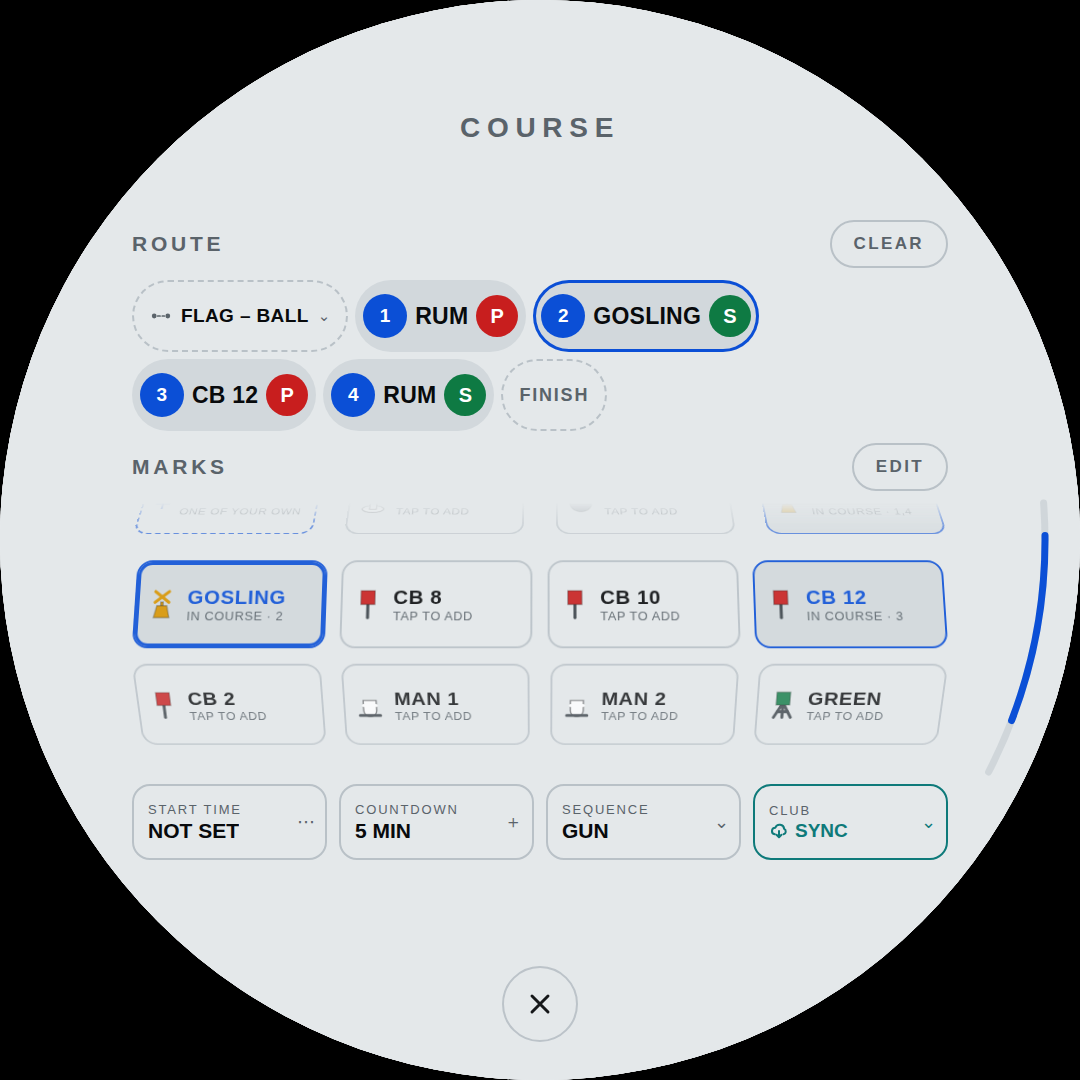
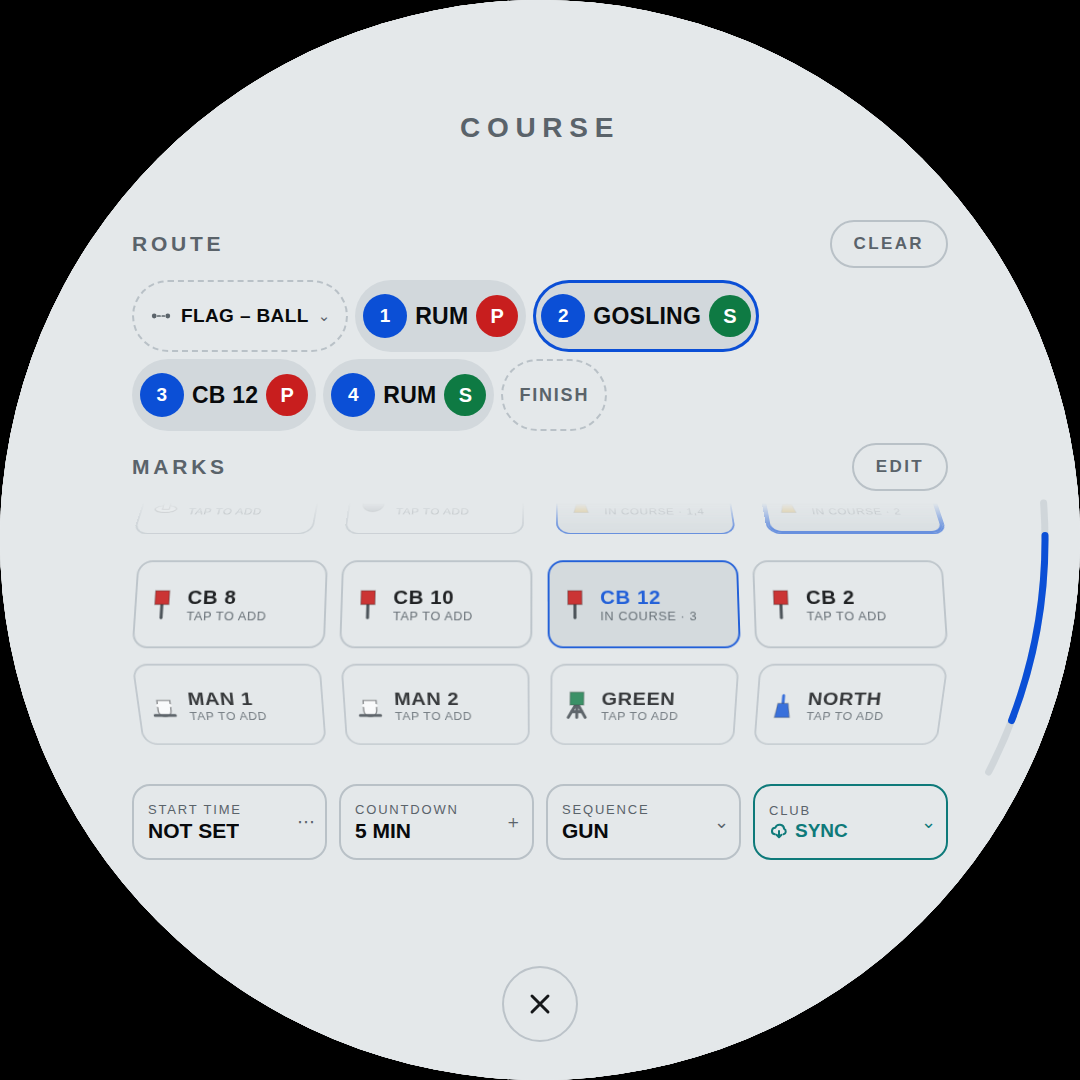
The top edge is always the panel's, and four smaller things
THE PULL. A swipe down from the very top now brings the control panel
over a running app instead of closing it. Brightness, the sounder, the
radios and the theme are not things you should have to leave the radar
to reach.

Three things had to line up. The panel sat at z20 and a launched app at
z25, so even a gesture that fired would have opened it UNDER the radar -
it is 29 now, sharing that with the scroll arc, which is later in the
document, so the panel's own sheet can still show its own arc. The judge
asked the app before the panel, which meant a panel pulled down over one
could never be swiped away - the panel is the outermost surface there
is, so it is asked first. And the radar's chart fills the glass and
claims every touch on it, so it swallowed the pull before the judge saw
it; its canvas lets a touch starting in the top band go unclaimed, with
nothing captured and no pan begun, which pointermove and up already
guard for.

The band is the top 17%, 184 px of 1080 - above the first row of
anything on every app, where the course sheet's heading is at 106 and
its first control at 220.

And a down-swipe no longer closes an app at all. It was both why the
pull did not work and the wrong control for the job: a flick that shuts
the page you are reading, thrown by the same thumb that scrolls it. The
cross at the foot closes an app, and only the cross.

THE START TIME PAD comes up over the sheet rather than in place of it.
[…]

diff --git a/confluence_helm.html b/confluence_helm.html
@@ -238,8 +238,14 @@ text{font-variant-numeric:tabular-nums;dominant-baseline:middle}
    used to come up from the bottom, which is where the app drawer lives
    now; two surfaces sharing an edge and an animation would have been two
    things that felt like one. */
+/* 29, over a launched app at 25 and over the menu at 27. The panel is
+   the one surface that comes down over ANYTHING - brightness, the
+   sounder, the radios and the theme are not things you should have to
+   leave the radar to reach. The screensaver at 30 is still above it, and
+   so is the scroll arc, which shares 29 and is later in the document -
+   the panel's own sheet scrolls, and its arc must not be under it. */
 #panel{
-  position:absolute;inset:0;background:var(--panel);z-index:20;
+  position:absolute;inset:0;background:var(--panel);z-index:29;
   transform:translateY(-100%);
   transition:transform .42s cubic-bezier(.16,1,.3,1);
   display:flex;flex-direction:column;align-items:center;justify-content:center;
@@ -529,13 +535,16 @@ text{font-variant-numeric:tabular-nums;dominant-baseline:middle}
    looking at is the one square on. It is the same shape as the buoy you
    are looking for out there - a thing you see part of because the rest
    of it has gone round.
-   Only a box with more in it than it can show turns. Flat means you are
-   looking at all of it; curved means it goes round, which is one more
-   thing on the face saying so before you have touched anything.
+   It turns whether or not there is anything to scroll. Curving only the
+   boxes that overflow made the curve a signal, which was tidy - and it
+   also meant the marks grid changed shape when an eleventh mark was
+   added, so the one surface on the face you look at most had two
+   appearances and no say in which. A drum is what this list IS, not a
+   thing that happens to it when it gets long.
    perspective on the scroller and not on each row, so every row is seen
    from one place - the middle of the box - which is what makes them read
    as one surface rather than as rows that each happen to be tilted. */
-.cv-grid.over,.lib-list.over{perspective:900px;perspective-origin:50% 50%}
+.cv-grid,.lib-list{perspective:900px;perspective-origin:50% 50%}
 .cv-grid > *,.lib-list > *{transform-origin:50% 50%}
 
 .cv-grid,.lib-list,.approw{--fa:0px; --fz:0px}
@@ -1182,20 +1191,41 @@ text{font-variant-numeric:tabular-nums;dominant-baseline:middle}
    borrowed from the mark keyboard - a key is 22 px on a 430 px phone,
    and the smallest thing anyone should ask a thumb to hit is 44. These
    are 112, which is 45 there and a generous target on the panel. */
-#course-gun{display:flex;flex-direction:column;align-items:stretch;width:640px}
-.gn-field{height:118px;border-radius:20px;background:var(--chip);display:flex;
-  align-items:center;justify-content:center;gap:18px;
+/* The start time is typed on a pad that comes up OVER the sheet rather
+   than in place of it. It used to take the whole page: the course you
+   were setting the time for vanished while you set it, which is the one
+   thing you might want to look at - and a full page for four digits is
+   the kind of thing a phone does because a phone has nothing else on
+   the screen. 520 wide and centred, with a veil to tap away. */
+#gn-veil{position:absolute;inset:0;z-index:26;display:none}
+#gn-veil.on{display:block}
+#course-gun{position:absolute;left:50%;top:50%;transform:translate(-50%,-50%);
+  z-index:27;display:none;flex-direction:column;align-items:stretch;width:640px;
+  padding:20px;border-radius:30px;background:var(--panel);
+  border:2px solid var(--hairline);box-shadow:0 18px 44px rgba(0,0,0,.28)}
+#course-gun.on{display:flex}
+.gn-field{height:96px;border-radius:18px;background:var(--chip);display:flex;
+  align-items:center;justify-content:center;
   border:2px solid var(--accent)}
-.gn-lbl{font-size:19px;letter-spacing:.16em;color:var(--label)}
-.gn-val{font-size:64px;font-weight:600;color:var(--ink);
-  font-variant-numeric:tabular-nums}
-.gn-val i{font-style:normal;font-size:34px;margin-left:10px}
-.gn-val.empty{color:var(--label);font-size:38px;letter-spacing:.08em}
-.gn-pad{display:flex;flex-direction:column;gap:10px;margin-top:12px}
+/* No GUN AT beside it any more. The pad is titled, the readout it came
+   from is titled, and a label on the number as well was the third time
+   of asking. */
+.gn-val{font-size:56px;font-weight:600;color:var(--ink);
+  font-variant-numeric:tabular-nums;letter-spacing:.02em}
+.gn-val i{font-style:normal;font-size:28px;margin-left:12px;color:var(--label)}
+.gn-val u{text-decoration:none;color:var(--hairline)}   /* a digit not typed yet */
+.gn-val u.c{color:var(--label)}                         /* the colon, which is */
+.gn-hd{font-size:17px;font-weight:600;letter-spacing:.18em;color:var(--label);
+  text-transform:uppercase;text-align:center;padding-bottom:12px}
+/* The pad shrank with the page around it and then grew back: 430 px of
+   phone shows 1080 px of layout, so a key is 0.398 of what it says here
+   and 112 is the smallest that still lands 44 under a thumb. A pop-out
+   is worth having; a pop-out you cannot hit is not. */
+.gn-pad{display:flex;flex-direction:column;gap:10px;margin-top:10px}
 .gn-row{display:flex;gap:10px}
-.gn-mer{margin-top:14px}
+.gn-mer{margin-top:10px}
 .gn-key{flex:1;min-width:0;height:112px;border-radius:16px;background:var(--chip);
-  border:none;font-family:var(--font);font-size:42px;font-weight:600;
+  border:none;font-family:var(--font);font-size:40px;font-weight:600;
   color:var(--ink);display:flex;align-items:center;justify-content:center}
 .gn-key:active{background:var(--accent);color:var(--panel)}
 .gn-key.fn{height:96px;font-size:30px;color:var(--ink-dim)}
@@ -1205,9 +1235,10 @@ text{font-variant-numeric:tabular-nums;dominant-baseline:middle}
 .gn-key.mer{height:88px;font-size:26px;letter-spacing:.12em;background:none;
   border:2px solid var(--hairline);color:var(--label)}
 .gn-key.mer.on{background:var(--accent);border-color:var(--accent);color:var(--panel)}
-#course-gun .course-bar{margin-top:16px}
-#course-gun .course-bar .cbtn{width:auto;height:72px;padding:0 30px;
-  border-radius:36px;font-size:21px}
+#course-gun .course-bar{margin-top:14px;justify-content:center;gap:12px}
+#course-gun .course-bar .cbtn{width:auto;height:60px;padding:0 24px;
+  border-radius:30px;font-size:18px}
+#gn-msg{min-height:26px;text-align:center}
 /* the form starts under where the alert banner ends (240): a shoaling
    warning while you are entering a mark is not far-fetched here */
 #course-add{padding-top:40px}
@@ -1687,7 +1718,7 @@ a.lib-row{text-decoration:none;color:inherit}
    everything after it. One overlay for the whole instrument - only one
    box is ever being scrolled - so it is placed in stage coordinates
    beside whichever box was last touched. */
-#arc{position:absolute;inset:0;width:100%;height:100%;z-index:28;
+#arc{position:absolute;inset:0;width:100%;height:100%;z-index:29;
   pointer-events:none;fill:none;opacity:0;transition:opacity .35s ease}
 /* Lit the whole time the box in front of you has more in it than it can
    show. A fade that only appears once you have already scrolled answers
@@ -2657,9 +2688,10 @@ document.body.className = THEME_EFF==='day' ? '' : THEME_EFF;
          use: a club race has a time on the sailing instructions, and
          typing it once beats watching a clock for the moment to press
          a button. -->
-    <div id="course-gun" style="display:none">
-      <div class="gn-field"><span class="gn-lbl">GUN AT</span
-        ><span class="gn-val" id="gn-at"></span></div>
+    <div id="gn-veil"></div>
+    <div id="course-gun">
+      <div class="gn-hd">Start time</div>
+      <div class="gn-field"><span class="gn-val" id="gn-at"></span></div>
       <div class="gn-row gn-mer">
         <button class="gn-key mer" id="gn-am">AM</button>
         <button class="gn-key mer" id="gn-pm">PM</button>
@@ -5078,7 +5110,11 @@ function goPage(i){
 /* Anything that moves the glass out from under the picker closes it:
    the menu is anchored to a cell, and a cell that has slid away or gone
    behind the panel leaves it pointing at nothing. */
-const openPanel =()=>{ if(APP.on) return; closeApps(); pickClose();
+/* No APP.on guard: a pull from the top edge opens this over a running
+   app, which is the whole point of it being at the top edge. openApps
+   keeps its guard - a second app launched over the first is not a thing
+   anybody reached for. */
+const openPanel =()=>{ closeApps(); pickClose();
                        markSlide('panel-open');  panel.classList.add('open');
                        netPanelOpen(); sheetFit(); };
 const closePanel=()=>{ markSlide('panel-close'); panel.classList.remove('open');
@@ -5230,6 +5266,15 @@ addEventListener('pointercancel',endGesture,true);
    desktop window can be resized under it, so the circle is measured
    rather than assumed. */
 const RIM_FRAC=0.78;
+/* The top edge, as a fraction of the glass. 0.17 is 184 px of 1080,
+   which on every app is above its first row of anything: the course
+   sheet's heading sits at 106 and its first control at 220. Below that
+   band a downward flick belongs to whatever is under it. */
+const TOP_PULL=0.17;
+function fromTop(y){
+  const r=$('stage').getBoundingClientRect();
+  return (y-r.top) < r.height*TOP_PULL;
+}
 function rimStart(x,y){
   const r=$('stage').getBoundingClientRect();
   const rad=Math.min(r.width,r.height)/2;
@@ -5276,13 +5321,23 @@ function judgeGesture(g){
      up is what a dismiss swipe dismisses, and nothing else acts: you
      cannot page sideways out from under the control panel, and a stray
      drag cannot fire the race timer underneath it. */
-  /* Whichever surface is up owns the gestures, innermost first. A
-     launched app is over both drawers, so it is asked before them. */
-  if(APP.on){ if(down) closeApp(); return; }
-  /* The panel came DOWN from the top, so UP is what sends it back. */
+  /* Whichever surface is up owns the gestures, innermost first - and
+     the control panel is the outermost thing there is, so it is asked
+     before the app underneath it. The other order meant that with an app
+     running the panel could be pulled down and never swiped away.
+     The panel came DOWN from the top, so UP is what sends it back. */
   if(panel.classList.contains('open')){
     if(drawUp){ if(netsheet.classList.contains('on')) closeNet(); else closePanel(); }
     return; }
+  /* An app owns everything except the top edge. A pull from up there is
+     the panel's wherever you are: brightness, the sounder, the radios
+     and the theme are not things you should have to leave the radar to
+     reach.
+     A down-swipe used to CLOSE the app, which is why you could not. It
+     was also the wrong control for the job - a flick that shuts the page
+     you are reading, thrown by the same thumb that scrolls it. The cross
+     at the foot closes an app now, and only the cross. */
+  if(APP.on){ if(drawDown && fromTop(sy)) openPanel(); return; }
   /* The dock came UP from the bottom, so DOWN sends it back - but only
      from the dock's own patch of glass. It covers a strip at the foot
      and leaves the dial in plain sight; a flick anywhere on that dial
@@ -8298,11 +8353,8 @@ function rimDraw(el, moving){
 const DRUM_TILT=34, DRUM_SHRINK=.11, DRUM_DIM=.42, DRUM_EDGE=1.4;
 function drumPaint(el){
   if(!el || !el.clientHeight) return;
-  const on=el.classList.contains('over');
   const H=el.clientHeight, mid=el.scrollTop+H/2, half=H/2;
   for(const k of el.children){
-    if(!on){ if(k.style.transform){ k.style.transform=''; k.style.opacity=''; }
-             continue; }
     const c=k.offsetTop+k.offsetHeight/2;
     let u=(c-mid)/half;
     /* Rows well past the edge are not on screen at all. Park them at the
@@ -9371,12 +9423,14 @@ function renderCourse(){
       +'<div class="tx"><b>'+esc(m.hdr)+'</b>'
       +'<s'+(moved?' class="moved"':'')+'>'+esc(sub)+'</s></div>'
       +badge+(courseEdit?'<div class="grip">≡</div>':'')+'</button>'; };
-  /* First, so it is there without scrolling for it, and so the new mark
-     appears in the place the tile that made it was standing. */
+  /* Last, on the end of the marks, which is where a new one will appear
+     - the tile stands in the place the mark it makes will take. It led
+     the grid for a while, which put it under your thumb but also put it
+     in front of eleven marks you already have to get past it. */
   const add='<button class="cv-tile add" data-add="1">'
     +'<span class="pl">＋</span><div class="tx"><b>NEW MARK</b>'
     +'<s>'+(courseEdit?'NAME AND POSITION':'ONE OF YOUR OWN')+'</s></div></button>';
-  box.innerHTML=add+MARKS.map(tile).join('');
+  box.innerHTML=MARKS.map(tile).join('')+add;
   scrollFit(box); drumPaint(box); rimDraw(box);
 
   /* The four settings, read at a glance. The corner glyph says what kind
@@ -9641,13 +9695,15 @@ function gnOpen(){
     pm = h>=12;
     v = String((h%12)||12) + String(d.getMinutes()).padStart(2,'0'); }
   GN={v:v, pm:pm, built:false};
-  pickClose(); crsTitle('Start time');
-  $('course-main').style.display='none'; $('course-gun').style.display='';
+  pickClose();
+  /* The sheet stays where it is, under the veil. The course you are
+     setting a time for is the one thing worth seeing while you set it. */
+  $('gn-veil').classList.add('on'); $('course-gun').classList.add('on');
   $('gn-msg').textContent=''; gnPaint();
 }
-function gnClose(){ GN=null; $('course-gun').style.display='none';
-  crsTitle();
-  $('course-main').style.display=''; renderCourse(); }
+function gnClose(){ GN=null;
+  $('course-gun').classList.remove('on'); $('gn-veil').classList.remove('on');
+  renderCourse(); }
 /* Digits and nothing else, five to a row. kbHtml's numeric layer carries
    the point, the minus and NSEW, which are there for a coordinate and
    are four wrong answers on a clock. */
@@ -9659,11 +9715,20 @@ const gnKb=()=>'<div class="gn-row">'+'12345'.split('').map(gnKey).join('')
 function gnPaint(){
   if(!GN) return;
   const d=GN.v, el=$('gn-at');
-  /* The colon goes two from the right as soon as there is a right: 6,
-     6:2, 6:25, 12:25. Typing is what it shows, not what it will mean. */
-  const txt = d.length>2 ? d.slice(0,d.length-2)+':'+d.slice(-2) : d;
-  el.innerHTML = d ? esc(txt)+'<i>'+(GN.pm?'PM':'AM')+'</i>' : 'WHEN?';
-  wCls('gn-at','empty', !d);
+  /* Always two and two, in a mask that fills from the left as you type:
+     --:--, 6-:--, 62:--, 6:25. It used to show the digits raw with the
+     colon two from the right, which meant the field changed width and
+     jumped sideways under the thumb on every key. A clock is four
+     characters wide whatever you have typed into it so far. */
+  const box=(d+'----').slice(0,4).split('');
+  const dim=n=>n==='-' ? '<u>–</u>' : n;
+  /* Once all four are in, the hour reads as the hour rather than as the
+     first two of four: 0625 is 06:25 and 1225 is 12:25. */
+  const hh = d.length>2 ? String(+d.slice(0,d.length-2)).padStart(2,'0')
+                        : box[0]+box[1];
+  const mm = d.length>2 ? d.slice(-2) : box[2]+box[3];
+  el.innerHTML = [...hh].map(dim).join('')+'<u class="c">:</u>'+[...mm].map(dim).join('')
+    +'<i>'+(GN.pm?'PM':'AM')+'</i>';
   wCls('gn-am','on', !GN.pm); wCls('gn-pm','on', GN.pm);
   if(!GN.built){ GN.built=true; $('gn-kb').innerHTML=gnKb(); }
 }
@@ -9951,6 +10016,9 @@ $('course-gun').addEventListener('click',e=>{
 const gnMer=pm=>{ if(!GN) return; GN.pm=pm; $('gn-msg').textContent=''; gnPaint(); };
 $('gn-am').addEventListener('click',()=>gnMer(false));
 $('gn-pm').addEventListener('click',()=>gnMer(true));
+/* Anywhere off the pad is 'not now', the same as the menu's veil. */
+$('gn-veil').addEventListener('pointerdown',gClaim);
+$('gn-veil').addEventListener('click',gnClose);
 $('gn-cancel').addEventListener('click',gnClose);
 $('gn-clear') .addEventListener('click',()=>{ GUNAT=null; gunSave(); gnClose(); });
 
@@ -11845,7 +11913,15 @@ function radOpen(host){
     R.view.z=zn; R.view.lon=unwx(gx,zn); R.view.lat=unwy(gy,zn);
     radReview();
   };
-  cv.addEventListener('pointerdown',e=>{ gClaim();
+  cv.addEventListener('pointerdown',e=>{
+    /* The top edge is the control panel's, wherever you are. The chart
+       fills the glass, so without this it claims the pull before the
+       judge ever sees it - and the radar is exactly the page you do not
+       want to leave to reach the brightness. Nothing is captured and no
+       pan starts, so pointermove and up have nothing of this one to
+       find: both are guarded on ptrs and drag. */
+    if(fromTop(e.clientY)) return;
+    gClaim();
     if(R.tour) R.tour.skip=true;
     ptrs.set(e.pointerId,{x:e.clientX,y:e.clientY});
     try{ cv.setPointerCapture(e.pointerId); }catch(err){}

diff --git a/docs/readings.md b/docs/readings.md
@@ -535,7 +535,7 @@ which said *which* part. The row is gone and each one went home:
 |---|---|---|
 | `CLEAR` | in the `ROUTE` heading | it empties the route. Disabled while there is no route to empty |
 | `EDIT` | in the `MARKS` heading | it changes what is in the list |
-| `+ MARK` | the **first tile in the grid** | a mark appears in the grid, so that is where you make one. It stands in the place the new one will take |
+| `+ MARK` | the **last tile in the grid** | a mark appears in the grid, so that is where you make one, and it stands in the place the new one will take. It led the grid for a while, which put it under your thumb and also put it in front of eleven marks you have to get past it |
 | `START LINE` | **first in the route**, in line with it | the route starts on the line and comes home to it. It was down among the evening's settings, next to the countdown, as though it were another thing about the clock |
 | `DONE` | **gone** | the ✕ at the foot already meant *out of here*. It goes back one step now: a sheet in front of the app closes first, the app itself next. Two ways out on a face this small is not a convenience, it is a question about which one you meant |
 
@@ -569,7 +569,7 @@ glance and only occasionally change.
 
 | | reads | a tap |
 |---|---|---|
-| `START TIME` | `6:25 PM`, or `NOT SET` | opens the pad that types it |
+| `START TIME` | `6:25 PM`, or `NOT SET` | opens the pad that types it — see below |
 | `COUNTDOWN` | `5 MIN` | **steps** it: 5, 10, 15, and round again |
 | `SEQUENCE` | `GUN` or `WINDOW` | opens a menu: both, with what each does to the line |
 | `CLUB` | `SYNC`, `CHECKING…`, `4 MARKS?` | asks the club site and opens on the answer — see below |
@@ -617,6 +617,30 @@ with `PING BOTH ENDS WITH P AND B ON THE RACE BOX` under it: a menu that
 hid the other line would not say how to get it.
 
 ![The two lines there are](img/course-line.png)
+
+### The start time pad
+
+It comes up **over** the sheet rather than in place of it. It used to
+take the whole page, which meant the course you were setting a time for
+vanished while you set it — the one thing you might want to look at —
+and a full page for four digits is what a phone does because a phone has
+nothing else on the screen. 640 × 736 on a 1080 circle, with a veil to
+tap away.
+
+640 and not the 520 it was first drawn at, because **430 px of phone
+shows 1080 px of layout**: a key is 0.398 of what the stylesheet says,
+and 112 is the smallest that still lands 44 px under a thumb. A pop-out
+is worth having; a pop-out you cannot hit is not. A probe holds that
+number.
+
+The field is a **fixed two-and-two mask** that fills as you type —
+`––:––`, `6–:––`, `62:––`, `06:25` — with the digits not yet typed drawn
+in the hairline. It showed the raw digits with the colon two from the
+right before, which meant the number changed width and jumped sideways
+under the thumb on every key. A clock is four characters wide whatever
+you have typed into it so far. The `GUN AT` label beside it is gone: the
+pad is titled, the readout it came from is titled, and a label on the
+number as well was the third time of asking.
 
 ### CLUB SYNC
 

diff --git a/docs/display.md b/docs/display.md
@@ -35,11 +35,30 @@ back to.
        * .            . *
 ```
 
-The control panel is still an overlay, pulled up from the bottom over
-whatever page you are on - and now reachable from any of them, the way
+The control panel is still an overlay, pulled down from the top over
+whatever page you are on - and reachable from any of them, the way
 control centre is on a phone. It is a layer over a place, not a place.
 While it is up it owns the gestures: left and right do nothing until you
 swipe it away.
+
+**Over a running app too.** A pull from the top edge — the top 17% of
+the glass, 184 px of 1080, which on every app is above its first row of
+anything — brings the panel down over the radar, the tracks app or
+golden hour without closing any of them. Brightness, the sounder, the
+radios and the theme are not things you should have to leave the radar
+to reach. That needs three things to line up: the panel sits at z29,
+over a launched app at 25 (and shares 29 with the scroll arc, which is
+later in the document, so the panel's own sheet can still show its arc);
+the judge asks the panel *before* the app, or a panel pulled down over
+one could never be swiped away; and the radar's chart, which fills the
+glass and claims every touch on it, lets a touch starting in that band
+go unclaimed.
+
+**A swipe no longer closes an app.** A down-flick used to, which is both
+why the pull did not work and the wrong control for the job — a flick
+that shuts the page you are reading, thrown by the same thumb that
+scrolls it. The cross at the foot closes an app now, and only the
+cross.
 
 ### How many fingers
 
@@ -676,11 +695,13 @@ the bottom, go smaller and go dim, and the row you are looking at is the
 one square on. It is the same shape as the buoy you are looking for out
 there — a thing you see part of because the rest of it has gone round.
 
-**Only a box with more in it than it can show turns.** Flat means you
-are looking at all of it; curved means it goes round. So the curve is
-itself one more thing on the face saying there is more, before you have
-touched anything — the same job as the lit track and the faded edge,
-said a third way.
+**It turns whether or not there is anything to scroll.** Curving only
+the boxes that overflow made the curve a signal, which was tidy — and it
+also meant the marks grid changed shape when an eleventh mark was added,
+so the one surface you look at most had two appearances and no say in
+which. A drum is what the list *is*, not a thing that happens to it once
+it gets long. Saying there is more is the lit track's job and the faded
+edge's, and two of those is enough.
 
 `perspective` goes on the scroller, not on each row, so every row is
 seen from one place — the middle of the box. That is what makes them
